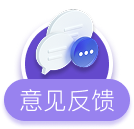
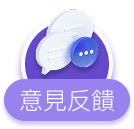
fix: 文案

Changed region(s): [[0.6866, 0.6822, 0.8657, 0.8682], [0.3284, 0.6822, 0.5075, 0.8682]]

diff --git a/pages/settings/index.vue b/pages/settings/index.vue
@@ -49,7 +49,7 @@ const handleDestroy = () => {
     <uv-cell title="關於我們" arrow-direction="right" :isLink="true" title-style="line-height: 90rpx" url="/pages/protocol/index?name=aboutUs"></uv-cell>
     <uv-cell title="常見問題" arrow-direction="right" :isLink="true" url="/pages/account/helper" title-style="line-height: 90rpx"></uv-cell>
 <!--    <uv-cell title="清除緩存" value="200M" title-style="line-height: 90rpx"></uv-cell>-->
-    <uv-cell title="版本信息" arrow-direction="right" :isLink="true" title-style="line-height: 90rpx" url="/pages/protocol/index?name=version"></uv-cell>
+    <uv-cell title="版本資訊" arrow-direction="right" :isLink="true" title-style="line-height: 90rpx" url="/pages/protocol/index?name=version"></uv-cell>
     <uv-cell title="反饋建議" url="/pages/feedback/index" arrow-direction="right" :isLink="true" title-style="line-height: 90rpx"></uv-cell>
   </uv-cell-group>
 

diff --git a/pages/register/index.vue b/pages/register/index.vue
@@ -100,7 +100,7 @@ const handleToSetInfo = () => {
           <view class="form-value">
             <uv-input placeholder="請輸入驗證碼" v-model="formData.code">
               <template v-slot:suffix>
-                <uv-code seconds="60" @change="codeChange" change-text="x秒後重新獲取" ref="oldCode"></uv-code>
+                <uv-code seconds="60" start-text="獲取驗證碼" end-text="重新獲取" @change="codeChange" change-text="x秒後重新獲取" ref="oldCode"></uv-code>
                 <uv-button size="mini" :text="tips" type="success" @click="getCode"></uv-button>
               </template>
             </uv-input>

diff --git a/pages/register/set-info.vue b/pages/register/set-info.vue
@@ -139,7 +139,7 @@ const handleToHome = () => {
       </view>
 
       <view v-if="currentStep === 1" class="card">
-        <view class="card-title">商家基本信息</view>
+        <view class="card-title">商家基本資訊</view>
         <view class="card-form">
           <view class="form-item">
             <view class="form-label">

diff --git a/api/public.js b/api/public.js
@@ -74,7 +74,7 @@ export const getSystemPublicConfig = () => {
     return request.get('/store/index/init', {})
 }
 
-/** 获取协议信息 */
+/** 獲取協議信息 */
 export const getProtocol = (params) => {
     return request.get('/store/index/protocol', params)
 }
